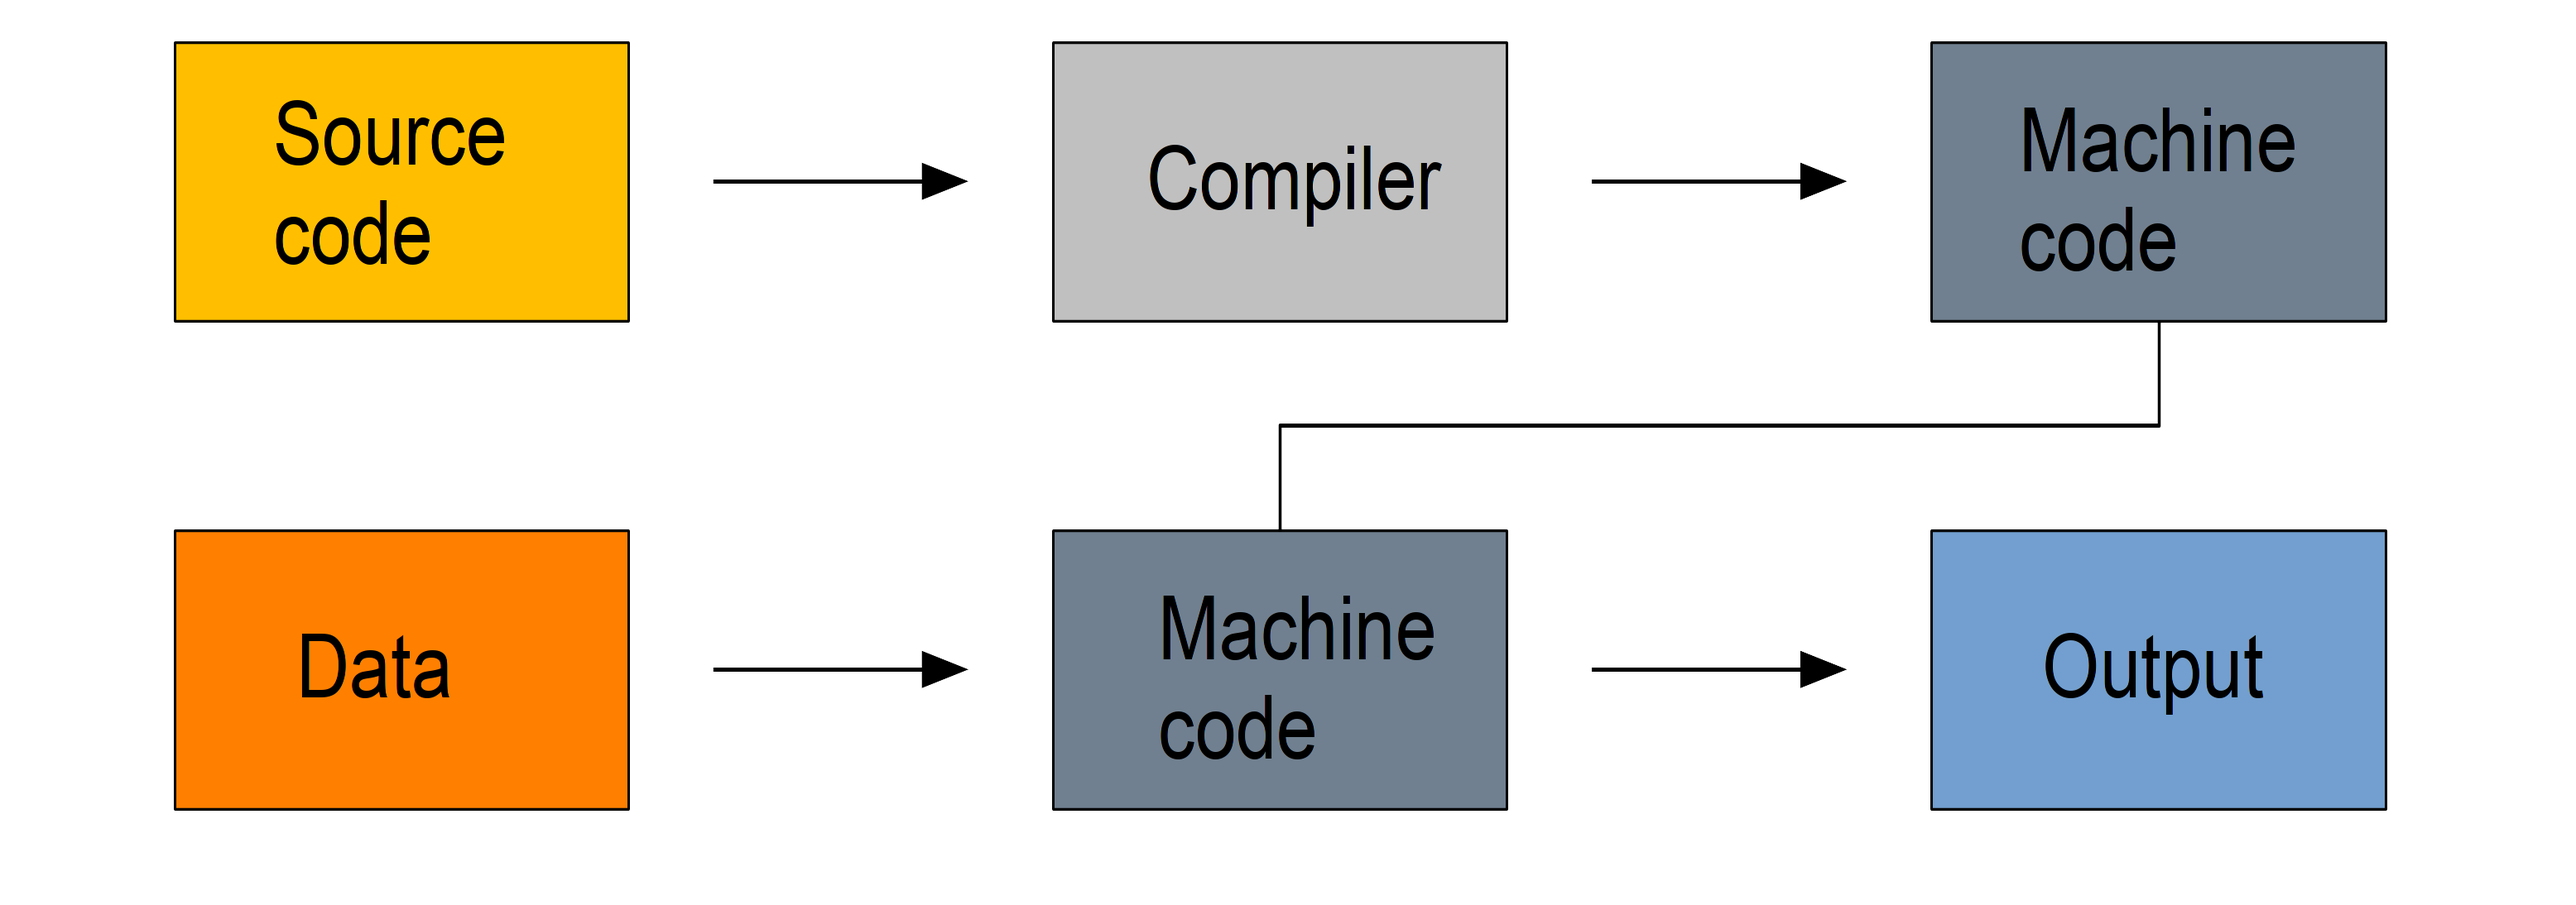
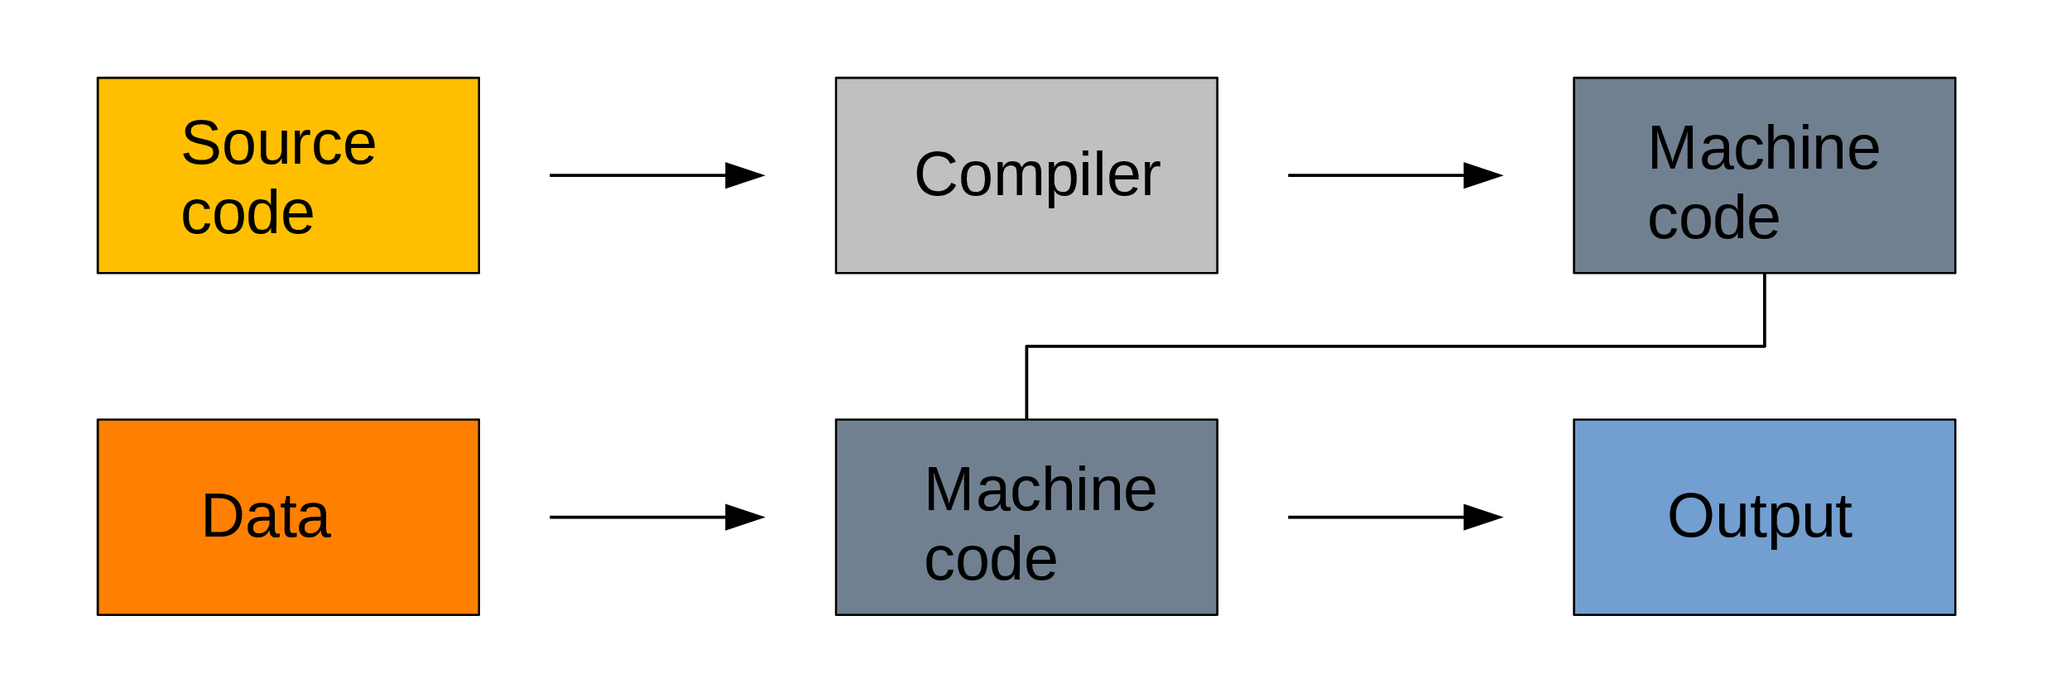
improve png in intro julia

diff --git a/_site/julia/intro_hpc.html b/_site/julia/intro_hpc.html
@@ -368,7 +368,7 @@ code span.wa { color: #60a0b0; font-weight: bold; font-style: italic; } /* Warni
 <li><p>it is then this machine code that is used to process your data</p></li>
 </ul>
 <p>So you write a script, compile it, then use it.</p>
-<p><img src="img/compiled_language.png" class="img-fluid" alt="noshadow"></p>
+<p><img src="img/compiled_language.png" class="img-fluid" style="width:85.0%" alt="noshadow"></p>
 <p>Because machine code is a lot easier to process by computers, compiled languages are fast. The two step process however makes prototyping new code less practical, these languages are hard to learn, and debugging compilation errors can be challenging.</p>
 <div class="example">
 <p>Examples of compiled languages include C, C++, Fortran, Go, and Haskell.</p>
@@ -377,7 +377,7 @@ code span.wa { color: #60a0b0; font-weight: bold; font-style: italic; } /* Warni
 <section id="interpreted-languages" class="level6">
 <h6 class="anchored" data-anchor-id="interpreted-languages">Interpreted languages</h6>
 <p>Interpreted languages are executed directly which has many advantages such as dynamic typing and direct feed-back from the code and they are easy to learn, but this comes at the cost of efficiency. The source code can facultatively be bytecompiled into non human-readable, more compact, lower level bytecode which is read by the interpreter more efficiently.</p>
-<p><img src="img/interpreted_language.png" class="img-fluid" alt="noshadow"></p>
+<p><img src="img/interpreted_language.png" class="img-fluid" style="width:85.0%" alt="noshadow"></p>
 <div class="example">
 <p>Examples of interpreted languages include R, Python, Perl, and JavaScript.</p>
 </div>
